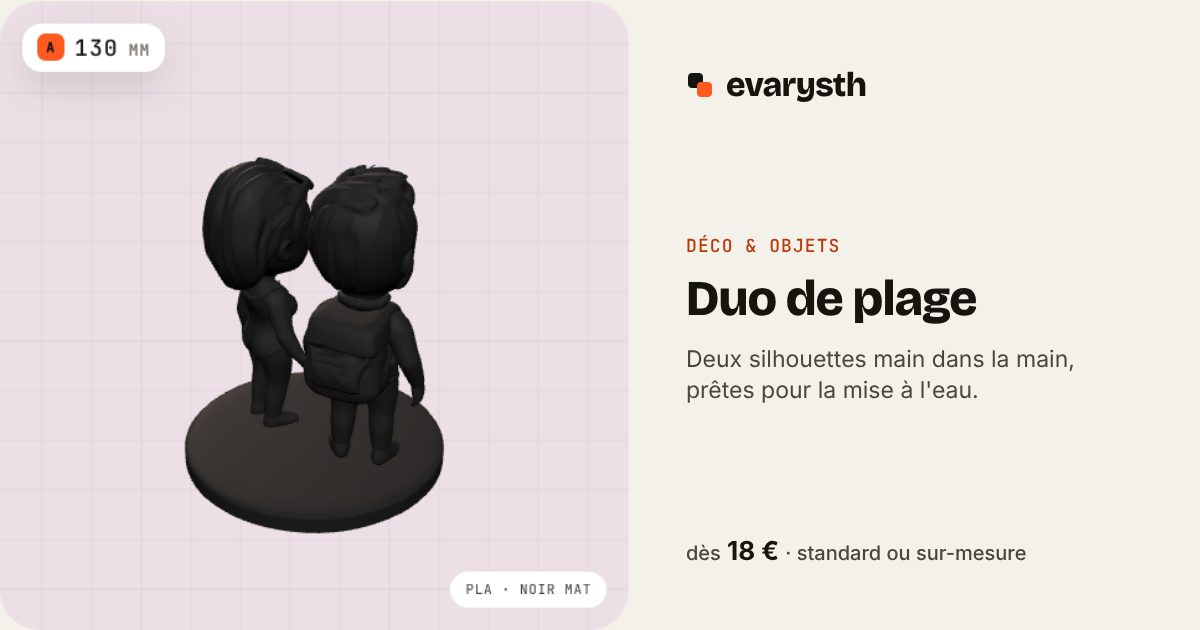
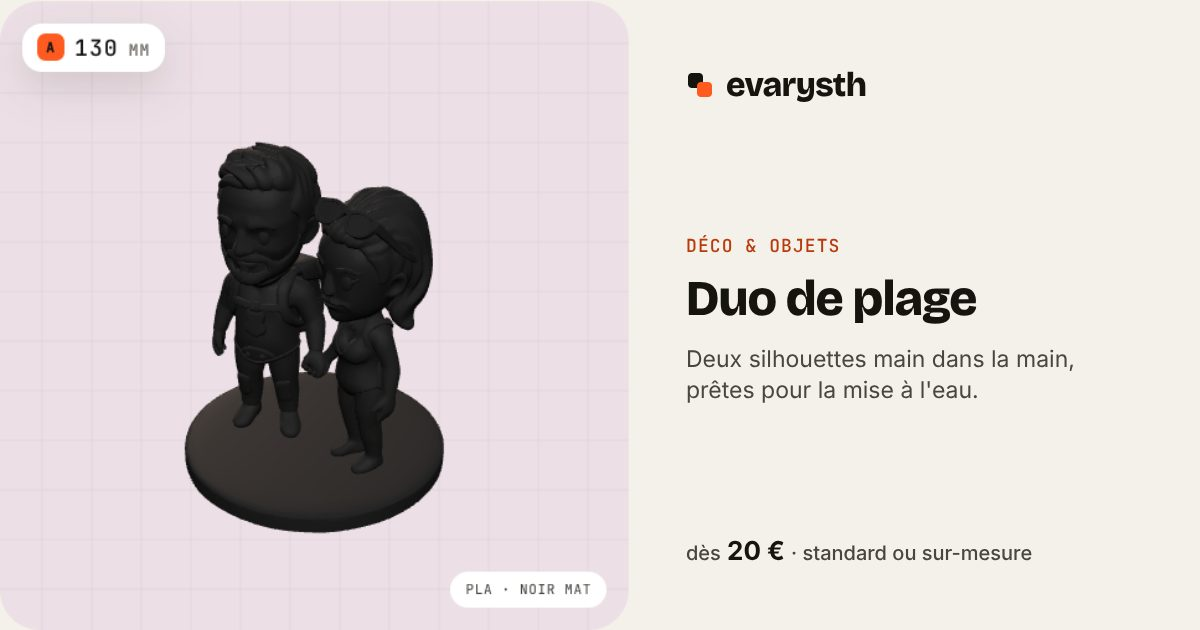
Duo de plage : pages, vignettes, image de partage et référence des prix
Claude-Session: https://claude.ai/code/session_013t5Airs76HYDcBqjZUKWFS

Changed region(s): [[0.1542, 0.2111, 0.37, 0.7238], [0.5858, 0.8444, 0.8633, 0.9048]]

diff --git a/catalogue/index.html b/catalogue/index.html
@@ -11,19 +11,19 @@
   <link rel="apple-touch-icon" href="/assets/icons/apple-touch-icon.png">
   <meta name="theme-color" content="#F4F1EA">
   <title>Evarysth</title>
-  <meta name="description" content="19 hacks imprimés en 3D, en taille standard ou à vos cotes : balcon &amp; extérieur, bureau, tech &amp; auto, meubles &amp; rangement, déco &amp; objets.">
+  <meta name="description" content="20 hacks imprimés en 3D, en taille standard ou à vos cotes : balcon &amp; extérieur, bureau, tech &amp; auto, meubles &amp; rangement, déco &amp; objets.">
   <link rel="canonical" href="https://evarysth.fr/catalogue/">
   <meta property="og:type" content="website">
   <meta property="og:site_name" content="Evarysth">
   <meta property="og:locale" content="fr_FR">
   <meta property="og:title" content="Catalogue Evarysth">
-  <meta property="og:description" content="19 hacks imprimés en 3D, en taille standard ou à vos cotes : balcon &amp; extérieur, bureau, tech &amp; auto, meubles &amp; rangement, déco &amp; objets.">
+  <meta property="og:description" content="20 hacks imprimés en 3D, en taille standard ou à vos cotes : balcon &amp; extérieur, bureau, tech &amp; auto, meubles &amp; rangement, déco &amp; objets.">
   <meta property="og:url" content="https://evarysth.fr/catalogue/">
   <meta property="og:image" content="https://evarysth.fr/assets/og/accueil.jpg">
   <meta property="og:image:width" content="1200">
   <meta property="og:image:height" content="630">
   <meta name="twitter:card" content="summary_large_image">
-  <script type="application/ld+json">{"@context":"https://schema.org","@type":"CollectionPage","name":"Catalogue Evarysth","url":"https://evarysth.fr/catalogue/","mainEntity":{"@type":"ItemList","itemListElement":[{"@type":"ListItem","position":1,"url":"https://evarysth.fr/produits/crochet-balcon/","name":"Crochet de balcon"},{"@type":"ListItem","position":2,"url":"https://evarysth.fr/produits/tablette-rambarde/","name":"Tablette café de balcon"},{"@type":"ListItem","position":3,"url":"https://evarysth.fr/produits/passe-cable/","name":"Passe-câble de bureau"},{"@type":"ListItem","position":4,"url":"https://evarysth.fr/produits/crochet-appui-tete/","name":"Crochet d'appui-tête multifonction"},{"@type":"ListItem","position":5,"url":"https://evarysth.fr/produits/crochet-appui-tete-double/","name":"Crochet d'appui-tête à deux tiges"},{"@type":"ListItem","position":6,"url":"https://evarysth.fr/produits/boite-rugged/","name":"Boîte robuste à loquets"},{"@type":"ListItem","position":7,"url":"https://evarysth.fr/produits/support-casque-treillis/","name":"Support casque Treillis"},{"@type":"ListItem","position":8,"url":"https://evarysth.fr/produits/organiseur-tiroir/","name":"Organiseur de tiroir"},{"@type":"ListItem","position":9,"url":"https://evarysth.fr/produits/vide-poche-cles/","name":"Vide-poche porte-clés"},{"@type":"ListItem","position":10,"url":"https://evarysth.fr/produits/distributeur-cotons/","name":"Distributeur cotons & cotons-tiges"},{"@type":"ListItem","position":11,"url":"https://evarysth.fr/produits/distributeur-oeufs/","name":"Distributeur d'œufs à deux étages"},{"@type":"ListItem","position":12,"url":"https://evarysth.fr/produits/distributeur-oeufs-boucle/","name":"Distributeur d'œufs en boucle"},{"@type":"ListItem","position":13,"url":"https://evarysth.fr/produits/cintre-sac/","name":"Cintre à sac pour tringle"},{"@type":"ListItem","position":14,"url":"https://evarysth.fr/produits/pince-sac-verseur/","name":"Pince à sac avec bec verseur"},{"@type":"ListItem","position":15,"url":"https://evarysth.fr/produits/support-aerosol-skadis/","name":"Support de bombe pour SKADIS"},{"@type":"ListItem","position":16,"url":"https://evarysth.fr/produits/support-accessoires-aspirateur/","name":"Support mural d'accessoires d'aspirateur"},{"@type":"ListItem","position":17,"url":"https://evarysth.fr/produits/chat-lord/","name":"Chat Lord"},{"@type":"ListItem","position":18,"url":"https://evarysth.fr/produits/carapuce/","name":"Carapuce"},{"@type":"ListItem","position":19,"url":"https://evarysth.fr/produits/voiture-voronoi/","name":"Voiture Voronoï"}]}}</script>
+  <script type="application/ld+json">{"@context":"https://schema.org","@type":"CollectionPage","name":"Catalogue Evarysth","url":"https://evarysth.fr/catalogue/","mainEntity":{"@type":"ItemList","itemListElement":[{"@type":"ListItem","position":1,"url":"https://evarysth.fr/produits/crochet-balcon/","name":"Crochet de balcon"},{"@type":"ListItem","position":2,"url":"https://evarysth.fr/produits/tablette-rambarde/","name":"Tablette café de balcon"},{"@type":"ListItem","position":3,"url":"https://evarysth.fr/produits/passe-cable/","name":"Passe-câble de bureau"},{"@type":"ListItem","position":4,"url":"https://evarysth.fr/produits/crochet-appui-tete/","name":"Crochet d'appui-tête multifonction"},{"@type":"ListItem","position":5,"url":"https://evarysth.fr/produits/crochet-appui-tete-double/","name":"Crochet d'appui-tête à deux tiges"},{"@type":"ListItem","position":6,"url":"https://evarysth.fr/produits/boite-rugged/","name":"Boîte robuste à loquets"},{"@type":"ListItem","position":7,"url":"https://evarysth.fr/produits/support-casque-treillis/","name":"Support casque Treillis"},{"@type":"ListItem","position":8,"url":"https://evarysth.fr/produits/organiseur-tiroir/","name":"Organiseur de tiroir"},{"@type":"ListItem","position":9,"url":"https://evarysth.fr/produits/vide-poche-cles/","name":"Vide-poche porte-clés"},{"@type":"ListItem","position":10,"url":"https://evarysth.fr/produits/distributeur-cotons/","name":"Distributeur cotons & cotons-tiges"},{"@type":"ListItem","position":11,"url":"https://evarysth.fr/produits/distributeur-oeufs/","name":"Distributeur d'œufs à deux étages"},{"@type":"ListItem","position":12,"url":"https://evarysth.fr/produits/distributeur-oeufs-boucle/","name":"Distributeur d'œufs en boucle"},{"@type":"ListItem","position":13,"url":"https://evarysth.fr/produits/cintre-sac/","name":"Cintre à sac pour tringle"},{"@type":"ListItem","position":14,"url":"https://evarysth.fr/produits/pince-sac-verseur/","name":"Pince à sac avec bec verseur"},{"@type":"ListItem","position":15,"url":"https://evarysth.fr/produits/support-aerosol-skadis/","name":"Support de bombe pour SKADIS"},{"@type":"ListItem","position":16,"url":"https://evarysth.fr/produits/support-accessoires-aspirateur/","name":"Support mural d'accessoires d'aspirateur"},{"@type":"ListItem","position":17,"url":"https://evarysth.fr/produits/chat-lord/","name":"Chat Lord"},{"@type":"ListItem","position":18,"url":"https://evarysth.fr/produits/duo-plage/","name":"Duo de plage"},{"@type":"ListItem","position":19,"url":"https://evarysth.fr/produits/carapuce/","name":"Carapuce"},{"@type":"ListItem","position":20,"url":"https://evarysth.fr/produits/voiture-voronoi/","name":"Voiture Voronoï"}]}}</script>
   <link rel="preconnect" href="https://fonts.googleapis.com">
   <link rel="preconnect" href="https://fonts.gstatic.com" crossorigin>
   <link href="https://fonts.googleapis.com/css2?family=Bricolage+Grotesque:opsz,wght@12..96,600;12..96,700;12..96,800&family=Inter:wght@400;500;600;700&family=JetBrains+Mono:wght@400;500&display=swap" rel="stylesheet">
@@ -81,7 +81,7 @@
   <main>
    <div id="catalogue-view">
     <header class="page-head">
-      <span class="mono eyebrow" id="catalogue-count">Catalogue · 19 hacks</span>
+      <span class="mono eyebrow" id="catalogue-count">Catalogue · 20 hacks</span>
       <h1>Tous nos hacks</h1>
       <p>Balayez chaque univers, ou ouvrez-le pour tout voir d'un coup.</p>
     </header>
@@ -89,7 +89,7 @@
      <section class="row-block"><h2><a href="univers/balcon/">Balcon &amp; Extérieur</a></h2><p>Tout se clipse sur votre garde-corps. Zéro trou, zéro souci avec le propriétaire.</p><ul class="list-static"><li><a href="produits/crochet-balcon/">Crochet de balcon</a> — Pour suspendre lanterne, plante ou serviette. <span>Dès 13 €</span></li><li><a href="produits/tablette-rambarde/">Tablette café de balcon</a> — Une petite table pour le café, posée sur la rambarde. <span>Dès 23 €</span></li></ul></section>
      <section class="row-block"><h2><a href="univers/bureau/">Bureau, Tech &amp; Auto</a></h2><p>Câbles, casques, affaires de voiture : chaque chose à sa place, à portée de main.</p><ul class="list-static"><li><a href="produits/passe-cable/">Passe-câble de bureau</a> — Un trou propre pour faire passer les câbles. <span>Dès 12 €</span></li><li><a href="produits/crochet-appui-tete/">Crochet d'appui-tête multifonction</a> — La tablette, le sac et la gourde rangés derrière le siège avant. <span>Dès 17 €</span></li><li><a href="produits/crochet-appui-tete-double/">Crochet d'appui-tête à deux tiges</a> — Se pose sur les deux tiges, sans sortir l'appui-tête. <span>Dès 17 €</span></li><li><a href="produits/support-casque-treillis/">Support casque Treillis</a> — Un vrai présentoir pour votre casque, léger comme une dentelle. <span>Dès 42 €</span></li></ul></section>
      <section class="row-block"><h2><a href="univers/meubles/">Meubles &amp; Rangement</a></h2><p>Les petites pièces qui manquaient à vos meubles du commerce.</p><ul class="list-static"><li><a href="produits/boite-rugged/">Boîte robuste à loquets</a> — Une boîte qui encaisse les chocs, aux dimensions de ce que vous rangez. <span>Dès 21 €</span></li><li><a href="produits/organiseur-tiroir/">Organiseur de tiroir</a> — Un casier qui épouse exactement votre tiroir. <span>Dès 26 €</span></li><li><a href="produits/vide-poche-cles/">Vide-poche porte-clés</a> — Les clés accrochées, la monnaie dans le bac, dès l'entrée. <span>Dès 15 €</span></li><li><a href="produits/distributeur-cotons/">Distributeur cotons &amp; cotons-tiges</a> — Les disques à portée de main, les cotons-tiges juste à côté. <span>Dès 19 €</span></li><li><a href="produits/distributeur-oeufs/">Distributeur d'œufs à deux étages</a> — Le plus ancien sort en premier, sans y penser. <span>Dès 25 €</span></li><li><a href="produits/distributeur-oeufs-boucle/">Distributeur d'œufs en boucle</a> — La forme d'origine, avec ses berceaux galbés. <span>Dès 27 €</span></li><li><a href="produits/cintre-sac/">Cintre à sac pour tringle</a> — Le sac à dos rangé dans la penderie, comme une veste. <span>Dès 14 €</span></li><li><a href="produits/pince-sac-verseur/">Pince à sac avec bec verseur</a> — Le paquet de café refermé, et un bec pour verser sans en mettre partout. <span>Dès 15 €</span></li><li><a href="produits/support-aerosol-skadis/">Support de bombe pour SKADIS</a> — La bombe aérosol rangée debout sur le panneau perforé, toujours à portée de main. <span>Dès 15 €</span></li><li><a href="produits/support-accessoires-aspirateur/">Support mural d'accessoires d'aspirateur</a> — Les embouts de l'aspirateur balai rangés au mur, prêts à être clipsés. <span>Dès 19 €</span></li></ul></section>
-     <section class="row-block"><h2><a href="univers/deco/">Déco &amp; Objets</a></h2><p>Des pièces à exposer, imprimées à la taille de votre étagère.</p><ul class="list-static"><li><a href="produits/chat-lord/">Chat Lord</a> — Un buste de chat couronné de lauriers, drapé à l'antique. <span>Dès 16 €</span></li><li><a href="produits/carapuce/">Carapuce</a> — La petite tortue la plus effrontée de l'étagère. <span>Dès 15 €</span></li><li><a href="produits/voiture-voronoi/">Voiture Voronoï</a> — Une sportive à aileron, toute en dentelle de plastique. <span>Dès 16 €</span></li></ul></section>
+     <section class="row-block"><h2><a href="univers/deco/">Déco &amp; Objets</a></h2><p>Des pièces à exposer, imprimées à la taille de votre étagère.</p><ul class="list-static"><li><a href="produits/chat-lord/">Chat Lord</a> — Un buste de chat couronné de lauriers, drapé à l'antique. <span>Dès 16 €</span></li><li><a href="produits/duo-plage/">Duo de plage</a> — Deux silhouettes main dans la main, prêtes pour la mise à l'eau. <span>Dès 20 €</span></li><li><a href="produits/carapuce/">Carapuce</a> — La petite tortue la plus effrontée de l'étagère. <span>Dès 15 €</span></li><li><a href="produits/voiture-voronoi/">Voiture Voronoï</a> — Une sportive à aileron, toute en dentelle de plastique. <span>Dès 16 €</span></li></ul></section>
     </div>
    </div>
   </main>

diff --git a/produits/duo-plage/index.html b/produits/duo-plage/index.html
@@ -1,0 +1,123 @@
+<!DOCTYPE html>
+<!-- Fichier généré par tools/generer-pages.mjs à partir de index.html et data.js : ne pas modifier à la main. -->
+<html lang="fr">
+<head>
+  <meta charset="utf-8">
+  <base href="../../">
+  <meta http-equiv="Content-Security-Policy" content="default-src 'self'; script-src 'self' 'unsafe-inline' 'wasm-unsafe-eval' https://cdn.jsdelivr.net https://cloud.umami.is; style-src 'self' 'unsafe-inline' https://fonts.googleapis.com; font-src 'self' https://fonts.gstatic.com; img-src 'self' data: blob:; connect-src 'self' https://evarysth-checkout.virnichka.workers.dev https://cloud.umami.is https://gateway.umami.is; worker-src 'self' blob:; object-src 'none'; base-uri 'self'; form-action 'self'">
+  <meta name="viewport" content="width=device-width, initial-scale=1">
+  <link rel="icon" href="/favicon.ico" sizes="32x32">
+  <link rel="icon" href="/assets/icons/favicon.svg" type="image/svg+xml">
+  <link rel="apple-touch-icon" href="/assets/icons/apple-touch-icon.png">
+  <meta name="theme-color" content="#F4F1EA">
+  <title>Evarysth</title>
+  <meta name="description" content="Deux silhouettes main dans la main, prêtes pour la mise à l'eau. Dès 20 €, en taille standard ou à vos cotes.">
+  <link rel="canonical" href="https://evarysth.fr/produits/duo-plage/">
+  <meta property="og:type" content="product">
+  <meta property="og:site_name" content="Evarysth">
+  <meta property="og:locale" content="fr_FR">
+  <meta property="og:title" content="Duo de plage — Evarysth">
+  <meta property="og:description" content="Deux silhouettes main dans la main, prêtes pour la mise à l'eau. Dès 20 €, sur-mesure possible.">
+  <meta property="og:url" content="https://evarysth.fr/produits/duo-plage/">
+  <meta property="og:image" content="https://evarysth.fr/assets/og/duo-plage.jpg">
+  <meta property="og:image:width" content="1200">
+  <meta property="og:image:height" content="630">
+  <meta property="og:image:alt" content="Duo de plage">
+  <meta property="product:price:amount" content="20.00">
+  <meta property="product:price:currency" content="EUR">
+  <meta name="twitter:card" content="summary_large_image">
+  <script type="application/ld+json">[{"@context":"https://schema.org","@type":"Product","name":"Duo de plage","description":"Deux silhouettes main dans la main, prêtes pour la mise à l'eau. Une figurine de couple au style figurine de collection : lui en combinaison de chasse sous-marine, sac sur le dos, elle en maillot, lunettes relevées sur la tête. Imprimée d'un seul bloc sur son socle rond, elle se règle en hauteur : du clin d'œil posé sur un bureau à la pièce qui trône sur une étagère.","sku":"duo-plage","category":"Déco & Objets","image":["https://evarysth.fr/assets/og/duo-plage.jpg"],"brand":{"@type":"Brand","name":"Evarysth"},"offers":{"@type":"AggregateOffer","url":"https://evarysth.fr/produits/duo-plage/","priceCurrency":"EUR","offerCount":3,"lowPrice":"20.00","highPrice":"31.00"}},{"@context":"https://schema.org","@type":"BreadcrumbList","itemListElement":[{"@type":"ListItem","position":1,"name":"Catalogue","item":"https://evarysth.fr/catalogue/"},{"@type":"ListItem","position":2,"name":"Déco & Objets","item":"https://evarysth.fr/univers/deco/"},{"@type":"ListItem","position":3,"name":"Duo de plage","item":"https://evarysth.fr/produits/duo-plage/"}]}]</script>
+  <link rel="preconnect" href="https://fonts.googleapis.com">
+  <link rel="preconnect" href="https://fonts.gstatic.com" crossorigin>
+  <link href="https://fonts.googleapis.com/css2?family=Bricolage+Grotesque:opsz,wght@12..96,600;12..96,700;12..96,800&family=Inter:wght@400;500;600;700&family=JetBrains+Mono:wght@400;500&display=swap" rel="stylesheet">
+  <script>try { document.documentElement.dataset.theme = localStorage.getItem("evarysth.theme") || "light"; } catch (e) { document.documentElement.dataset.theme = "light"; }</script>
+  <link rel="stylesheet" href="assets/css/style.css">
+  <!-- Three.js (modules ES), chargé à la demande par assets/js/viewer3d.js sur les fiches produit 3D -->
+  <script>
+    /* Statistiques de visite (Umami Cloud, sans cookie). Renseigner l'identifiant du site ;
+       vide = aucun suivi. Seul le domaine en ligne est compté (pas les tests en local). */
+    (function () {
+      var id = "c4454d44-ccb5-4bbd-ba65-54fc78c61b5b";
+      if (!id || !/(^|\.)evarysth\.fr$/.test(location.hostname)) return;
+      var s = document.createElement("script");
+      s.defer = true; s.src = "https://cloud.umami.is/script.js";
+      s.dataset.websiteId = id; s.dataset.autoTrack = "false";
+      s.onload = function () { window.evarysthTrack(); };
+      document.head.appendChild(s);
+    })();
+    /* evarysthTrack() = page vue (adresse avec #vue) ; evarysthTrack(nom, données) = événement */
+    window.evarysthTrack = function (name, data) {
+      try {
+        if (!window.umami) return;
+        if (name) umami.track(name, data);
+        else umami.track(function (p) { return Object.assign({}, p, { url: location.pathname + location.hash, title: document.title }); });
+      } catch (e) { /* statistiques indisponibles */ }
+    };
+  </script>
+  <script type="importmap">
+    { "imports": {
+      "three": "https://cdn.jsdelivr.net/npm/three@0.170.0/build/three.module.js",
+      "three/addons/": "https://cdn.jsdelivr.net/npm/three@0.170.0/examples/jsm/"
+    } }
+  </script>
+</head>
+<body data-product-id="duo-plage">
+  <header class="site-header">
+    <a class="logo" href="#" aria-label="Evarysth, accueil"><svg class="logo__mark" viewBox="0 0 28 28" aria-hidden="true"><rect x="2" y="2" width="15" height="15" rx="4" class="logo__a"/><rect x="11" y="11" width="15" height="15" rx="4" class="logo__b"/></svg>evarysth</a>
+    <nav class="nav" aria-label="Navigation principale">
+      <a href="catalogue/" data-nav="catalogue">Catalogue</a>
+      <a href="univers/balcon/" data-nav="f-balcon">Balcon</a>
+      <a href="univers/bureau/" data-nav="f-bureau">Bureau</a>
+      <a href="univers/meubles/" data-nav="f-meubles">Meubles</a>
+      <a href="univers/deco/" data-nav="f-deco">Déco</a>
+    </nav>
+    <div class="tools">
+      <button class="search-pill" data-search-open aria-label="Rechercher (touche /)"><svg class="ico" viewBox="0 0 24 24" fill="none" stroke="currentColor" stroke-width="2" stroke-linecap="round" aria-hidden="true"><circle cx="11" cy="11" r="7"/><path d="m20 20-3.5-3.5"/></svg><span>Un crochet, un support…</span><kbd>/</kbd></button>
+      <a class="icon-btn" href="#favoris" aria-label="Mes favoris"><svg class="ico" viewBox="0 0 24 24" fill="none" stroke="currentColor" stroke-width="2" stroke-linecap="round" stroke-linejoin="round" aria-hidden="true"><path d="M12 20s-7-4.4-7-10a4 4 0 0 1 7-2.5A4 4 0 0 1 19 10c0 5.6-7 10-7 10z"/></svg><span class="dot" data-fav-count hidden>0</span></a>
+      <button class="icon-btn hide-md" data-theme-toggle aria-label="Changer de thème"><span class="ico-moon"><svg class="ico" viewBox="0 0 24 24" fill="none" stroke="currentColor" stroke-width="2" stroke-linecap="round" stroke-linejoin="round" aria-hidden="true"><path d="M20 14.5A8 8 0 1 1 9.5 4a6.5 6.5 0 0 0 10.5 10.5z"/></svg></span><span class="ico-sun"><svg class="ico" viewBox="0 0 24 24" fill="none" stroke="currentColor" stroke-width="2" stroke-linecap="round" stroke-linejoin="round" aria-hidden="true"><circle cx="12" cy="12" r="4"/><path d="M12 2v2M12 20v2M4.9 4.9l1.4 1.4M17.7 17.7l1.4 1.4M2 12h2M20 12h2M4.9 19.1l1.4-1.4M17.7 6.3l1.4-1.4"/></svg></span></button>
+      <button class="icon-btn show-md" data-menu-open aria-label="Ouvrir le menu" aria-expanded="false" aria-controls="menu"><svg class="ico" viewBox="0 0 24 24" fill="none" stroke="currentColor" stroke-width="2" stroke-linecap="round" aria-hidden="true"><path d="M4 7h16M4 12h16M4 17h16"/></svg></button>
+      <button class="cart-btn" data-cart-open aria-label="Ouvrir le panier">
+        <svg class="ico cart-btn__ico" viewBox="0 0 24 24" fill="none" stroke="currentColor" stroke-width="2" stroke-linecap="round" stroke-linejoin="round" aria-hidden="true"><path d="M5 8h14l-1.2 12H6.2z"/><path d="M9 10V7a3 3 0 0 1 6 0v3"/></svg><span class="cart-btn__label">Panier</span><span class="cart-btn__count" data-cart-count hidden>0</span>
+      </button>
+    </div>
+  </header>
+  <main>
+   <div id="product-root" class="product">
+    <nav class="crumbs" aria-label="Fil d'Ariane"><a href="catalogue/">Catalogue</a> / <a href="univers/deco/">Déco &amp; Objets</a> / <span>Duo de plage</span></nav>
+    <article class="pdp-static">
+      <h1>Duo de plage</h1>
+      <p>Deux silhouettes main dans la main, prêtes pour la mise à l'eau.</p>
+      <p>Une figurine de couple au style figurine de collection : lui en combinaison de chasse sous-marine, sac sur le dos, elle en maillot, lunettes relevées sur la tête. Imprimée d'un seul bloc sur son socle rond, elle se règle en hauteur : du clin d'œil posé sur un bureau à la pièce qui trône sur une étagère.</p>
+      <p>Dès 20 €. En taille standard (hauteur : S 110 mm, M 130 mm, L 160 mm), ou sur-mesure à vos cotes.</p>
+      
+      <noscript><p>Activez JavaScript pour voir la pièce en 3D, régler vos cotes et commander.</p></noscript>
+    </article>
+   </div>
+  </main>
+  <section class="reassure">
+    <div><b>14 jours pour changer d'avis</b><span>sur les tailles standard</span></div>
+    <div><b>Garantie légale 2 ans</b><span>défaut ou non-conformité couverts</span></div>
+    <div><b>Paiement sécurisé</b><span>carte, Apple Pay, PayPal</span></div>
+  </section>
+  <footer class="site-footer">
+    <div class="site-footer__brand">
+      <div class="logo logo--footer">evarysth</div>
+      <p>Hacks d'intérieur fabriqués à la demande en impression 3D. Sans percer, sans jargon.</p>
+      <p class="site-footer__contact">Une question, une idée de hack ? <a href="mailto:contact@evarysth.fr">contact@evarysth.fr</a></p>
+    </div>
+    <nav class="site-footer__col"><b class="mono">Catalogue</b>
+      <a href="univers/balcon/">Balcon &amp; Extérieur</a><a href="univers/bureau/">Bureau, Tech &amp; Auto</a><a href="univers/meubles/">Meubles &amp; Rangement</a><a href="univers/deco/">Déco &amp; Objets</a><a href="#favoris">Mes favoris</a></nav>
+    <nav class="site-footer__col"><b class="mono">Aide</b>
+      <a href="#faq">Questions fréquentes</a><a href="#faq-suivi">Suivre ma commande</a><a href="cgv/#livraison">Livraison &amp; retours</a><a href="mailto:contact@evarysth.fr">Nous contacter</a></nav>
+    <p class="fine site-footer__legal">© 2026 Evarysth · <a href="cgv/">Conditions générales de vente</a> · <a href="mentions-legales/">Mentions légales</a> · <a href="confidentialite/">Confidentialité</a></p>
+  </footer>
+  <div class="toasts" id="toasts" aria-live="polite"></div>
+  <script src="assets/js/data.js"></script>
+  <script src="assets/js/bareme.js"></script>
+  <script src="assets/js/prix.js"></script>
+  <script src="assets/js/ui.js"></script>
+  <script src="assets/js/viewer3d.js"></script>
+  <script src="assets/js/app.js"></script>
+  <script src="assets/js/cart.js"></script>
+</body>
+</html>

diff --git a/univers/deco/index.html b/univers/deco/index.html
@@ -11,19 +11,19 @@
   <link rel="apple-touch-icon" href="/assets/icons/apple-touch-icon.png">
   <meta name="theme-color" content="#F4F1EA">
   <title>Evarysth</title>
-  <meta name="description" content="Des pièces à exposer, imprimées à la taille de votre étagère. Chat Lord, Carapuce, Voiture Voronoï… Dès 15 €, standard ou à vos cotes.">
+  <meta name="description" content="Des pièces à exposer, imprimées à la taille de votre étagère. Chat Lord, Duo de plage, Carapuce, Voiture Voronoï… Dès 15 €, standard ou à vos cotes.">
   <link rel="canonical" href="https://evarysth.fr/univers/deco/">
   <meta property="og:type" content="website">
   <meta property="og:site_name" content="Evarysth">
   <meta property="og:locale" content="fr_FR">
   <meta property="og:title" content="Déco &amp; Objets — Evarysth">
-  <meta property="og:description" content="Des pièces à exposer, imprimées à la taille de votre étagère. Chat Lord, Carapuce, Voiture Voronoï… Dès 15 €, standard ou à vos cotes.">
+  <meta property="og:description" content="Des pièces à exposer, imprimées à la taille de votre étagère. Chat Lord, Duo de plage, Carapuce, Voiture Voronoï… Dès 15 €, standard ou à vos cotes.">
   <meta property="og:url" content="https://evarysth.fr/univers/deco/">
   <meta property="og:image" content="https://evarysth.fr/assets/og/accueil.jpg">
   <meta property="og:image:width" content="1200">
   <meta property="og:image:height" content="630">
   <meta name="twitter:card" content="summary_large_image">
-  <script type="application/ld+json">[{"@context":"https://schema.org","@type":"CollectionPage","name":"Déco & Objets","url":"https://evarysth.fr/univers/deco/","mainEntity":{"@type":"ItemList","itemListElement":[{"@type":"ListItem","position":1,"url":"https://evarysth.fr/produits/chat-lord/","name":"Chat Lord"},{"@type":"ListItem","position":2,"url":"https://evarysth.fr/produits/carapuce/","name":"Carapuce"},{"@type":"ListItem","position":3,"url":"https://evarysth.fr/produits/voiture-voronoi/","name":"Voiture Voronoï"}]}},{"@context":"https://schema.org","@type":"BreadcrumbList","itemListElement":[{"@type":"ListItem","position":1,"name":"Catalogue","item":"https://evarysth.fr/catalogue/"},{"@type":"ListItem","position":2,"name":"Déco & Objets","item":"https://evarysth.fr/univers/deco/"}]}]</script>
+  <script type="application/ld+json">[{"@context":"https://schema.org","@type":"CollectionPage","name":"Déco & Objets","url":"https://evarysth.fr/univers/deco/","mainEntity":{"@type":"ItemList","itemListElement":[{"@type":"ListItem","position":1,"url":"https://evarysth.fr/produits/chat-lord/","name":"Chat Lord"},{"@type":"ListItem","position":2,"url":"https://evarysth.fr/produits/duo-plage/","name":"Duo de plage"},{"@type":"ListItem","position":3,"url":"https://evarysth.fr/produits/carapuce/","name":"Carapuce"},{"@type":"ListItem","position":4,"url":"https://evarysth.fr/produits/voiture-voronoi/","name":"Voiture Voronoï"}]}},{"@context":"https://schema.org","@type":"BreadcrumbList","itemListElement":[{"@type":"ListItem","position":1,"name":"Catalogue","item":"https://evarysth.fr/catalogue/"},{"@type":"ListItem","position":2,"name":"Déco & Objets","item":"https://evarysth.fr/univers/deco/"}]}]</script>
   <link rel="preconnect" href="https://fonts.googleapis.com">
   <link rel="preconnect" href="https://fonts.gstatic.com" crossorigin>
   <link href="https://fonts.googleapis.com/css2?family=Bricolage+Grotesque:opsz,wght@12..96,600;12..96,700;12..96,800&family=Inter:wght@400;500;600;700&family=JetBrains+Mono:wght@400;500&display=swap" rel="stylesheet">
@@ -82,11 +82,11 @@
    <div id="family-view">
     <nav class="crumbs" aria-label="Fil d'Ariane"><a href="catalogue/">Catalogue</a> / <span>Déco &amp; Objets</span></nav>
     <header class="page-head page-head--u" data-u="deco">
-      <span class="mono eyebrow">Univers 04 · 3 hacks</span>
+      <span class="mono eyebrow">Univers 04 · 4 hacks</span>
       <h1>Déco &amp; Objets <em>à poser</em></h1>
       <p>Des pièces à exposer, imprimées à la taille de votre étagère.</p>
     </header>
-    <ul class="list-static"><li><a href="produits/chat-lord/">Chat Lord</a> — Un buste de chat couronné de lauriers, drapé à l'antique. <span>Dès 16 €</span></li><li><a href="produits/carapuce/">Carapuce</a> — La petite tortue la plus effrontée de l'étagère. <span>Dès 15 €</span></li><li><a href="produits/voiture-voronoi/">Voiture Voronoï</a> — Une sportive à aileron, toute en dentelle de plastique. <span>Dès 16 €</span></li></ul>
+    <ul class="list-static"><li><a href="produits/chat-lord/">Chat Lord</a> — Un buste de chat couronné de lauriers, drapé à l'antique. <span>Dès 16 €</span></li><li><a href="produits/duo-plage/">Duo de plage</a> — Deux silhouettes main dans la main, prêtes pour la mise à l'eau. <span>Dès 20 €</span></li><li><a href="produits/carapuce/">Carapuce</a> — La petite tortue la plus effrontée de l'étagère. <span>Dès 15 €</span></li><li><a href="produits/voiture-voronoi/">Voiture Voronoï</a> — Une sportive à aileron, toute en dentelle de plastique. <span>Dès 16 €</span></li></ul>
    </div>
   </main>
   <section class="reassure">
